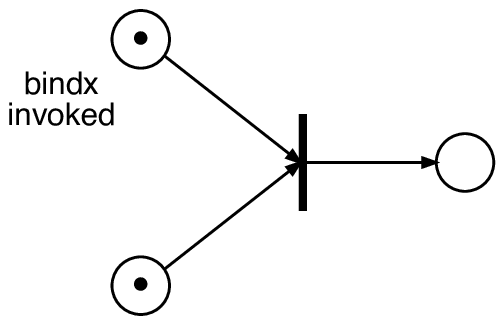
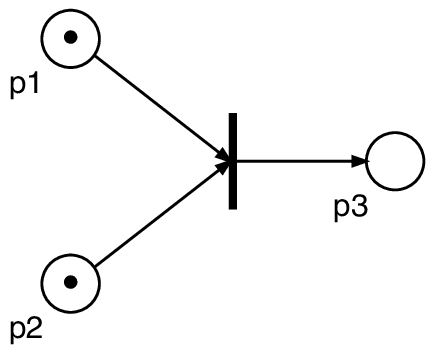
Change example pictures

diff --git a/docs/readme.md b/docs/readme.md
@@ -25,16 +25,27 @@ Will generate this:
 
 ![](https://dl.dropboxusercontent.com/u/5867765/tools/exemd/f-dot-0.pdf.png)
 
-You can also add external labels to nodes, such as in:
+You can also add external labels to nodes with `add-x-label`, such as
+in:
 
     ```{pn !}
-    add-x-label("invoked*", "bindx\ninvoked")
-    connect(["invoked*", "p*"] ,"x_has_value")
+    add-x-label("p1*", "p1")
+    add-x-label("p2*", "p2")
+    add-x-label("p3*", "p3")
+    connect(["p1*", "p2*"] ,"p3")
     ```
 
 which generates:
 
 ![](https://dl.dropboxusercontent.com/u/5867765/tools/exemd/f-dot-1.pdf.png)
+
+You can also have an array of node names as a destination of a
+transition:
+
+    ```{pn !}
+    connect(["p0*", "p*"] ,["p1*", "p2"])
+    connect(["p1*", "p2"] ,"p3")
+    ```
 
 Author
 ------

diff --git a/readme.md b/readme.md
@@ -29,16 +29,27 @@ Will generate this:
 
 ![](https://dl.dropboxusercontent.com/u/5867765/tools/exemd/f-dot-0.pdf.png)
 
-You can also add external labels to nodes, such as in:
+You can also add external labels to nodes with `add-x-label`, such as
+in:
 
     ```{pn !}
-    add-x-label("invoked*", "bindx\ninvoked")
-    connect(["invoked*", "p*"] ,"x_has_value")
+    add-x-label("p1*", "p1")
+    add-x-label("p2*", "p2")
+    add-x-label("p3*", "p3")
+    connect(["p1*", "p2*"] ,"p3")
     ```
 
 which generates:
 
 ![](https://dl.dropboxusercontent.com/u/5867765/tools/exemd/f-dot-1.pdf.png)
+
+You can also have an array of node names as a destination of a
+transition:
+
+    ```{pn !}
+    connect(["p0*", "p*"] ,["p1*", "p2"])
+    connect(["p1*", "p2"] ,"p3")
+    ```
 
 Author
 ------

diff --git a/src/source.md b/src/source.md
@@ -4,6 +4,13 @@ connect(["invoked", "p*"] ,"x_has_value")
 
 
 ```{pn !}
-add-x-label("invoked*", "bindx\ninvoked")
-connect(["invoked*", "p*"] ,"x_has_value")
+add-x-label("p1*", "p1")
+add-x-label("p2*", "p2")
+add-x-label("p3", "p3")
+connect(["p1*", "p2*"] ,"p3")
+```
+
+```{pn !}
+connect(["p0*", "p*"] ,["p1*", "p2"])
+connect(["p1*", "p2"] ,"p3")
 ```
